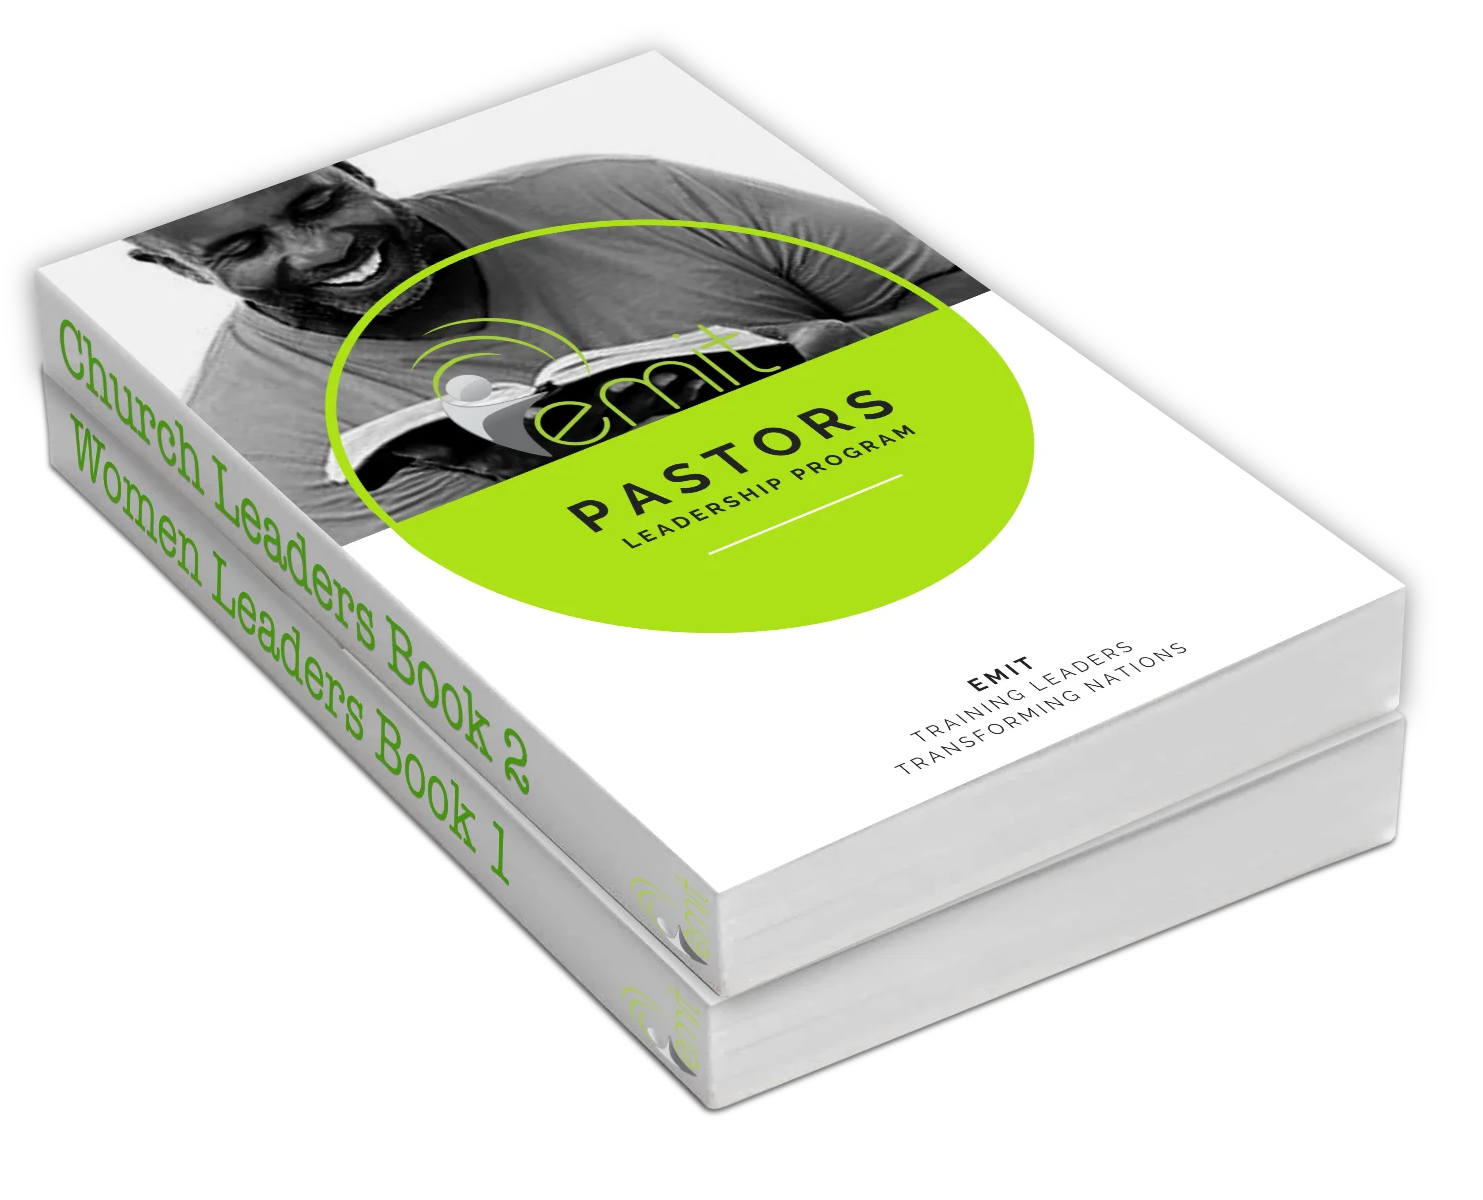
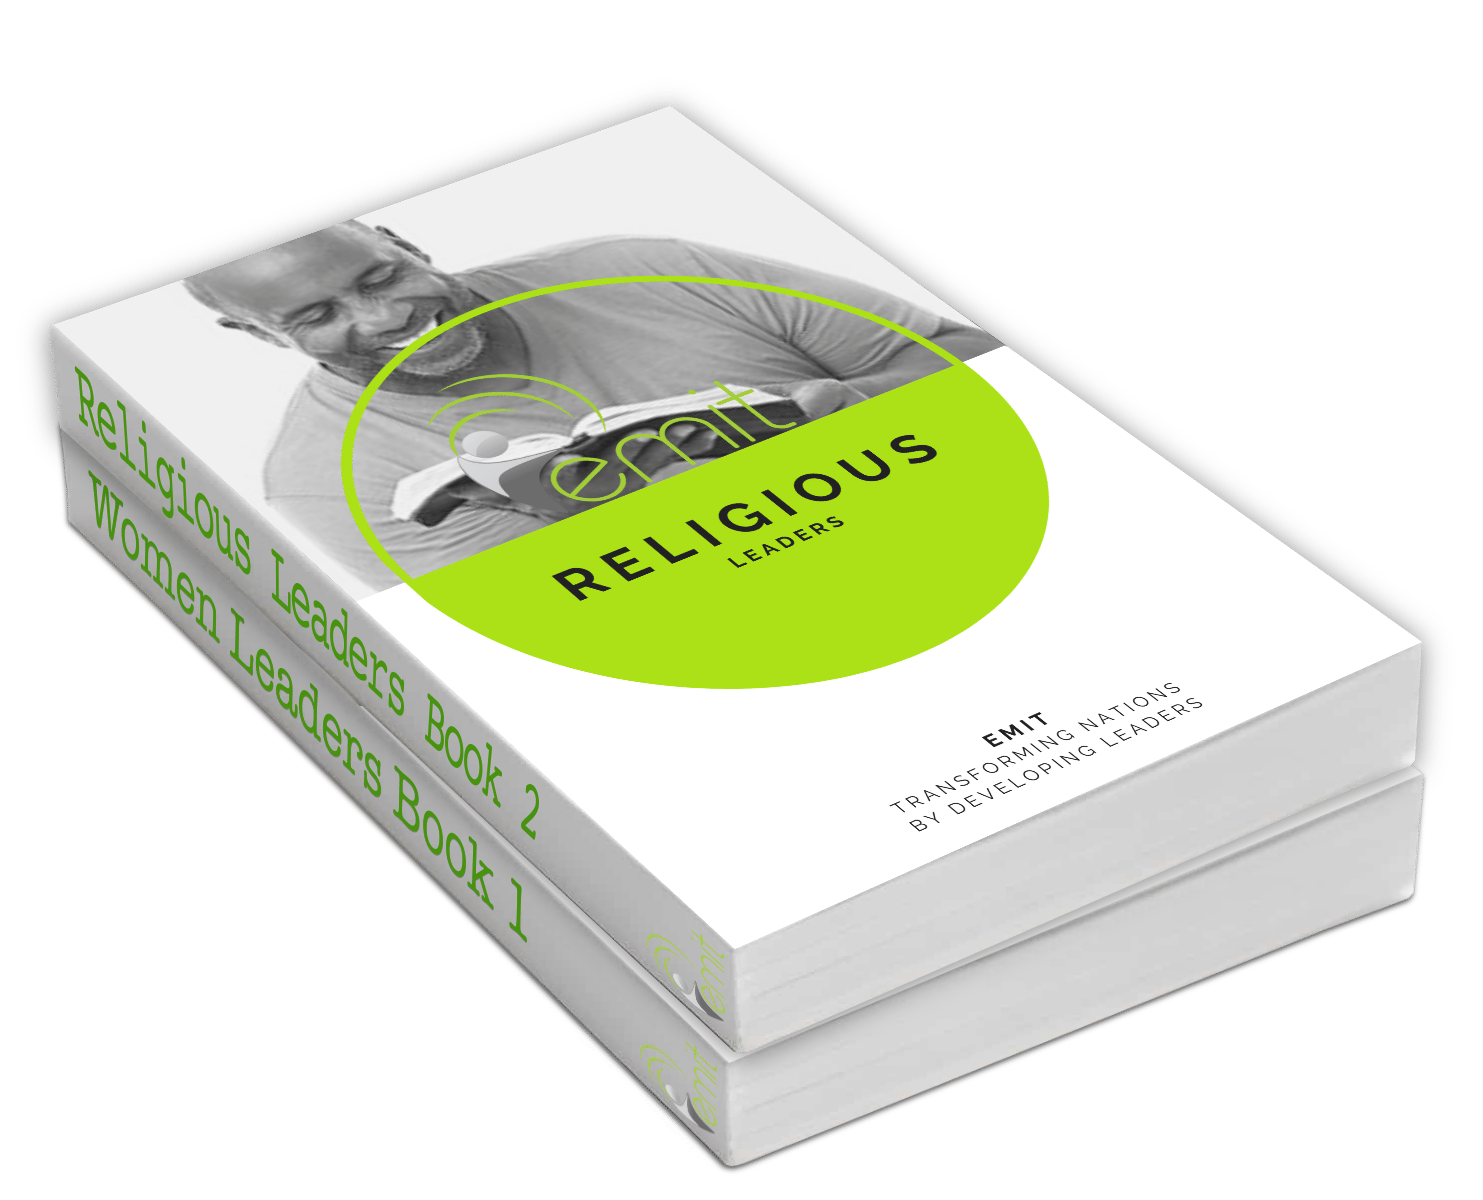
Changed spriritual to Religious

Changed region(s): [[0.0, 0.0617, 0.9926, 0.9867], [0.3102, 0.0308, 0.4653, 0.0925], [0.2481, 0.0925, 0.3102, 0.1233]]

diff --git a/about.html b/about.html
@@ -93,8 +93,8 @@ description:
 			Africa's leaders have the power to transform lives.
 		</p>
 		<div class="callToAction">
-			<a href="{{site.baseurl}}/get-involved/" class="button">Get Involved</a>
-			<a href="{{site.baseurl}}/donate/" class="button primary">Donate</a>
+			<a href="{{site.baseurl}}/get-involved" class="button">Get Involved</a>
+			<a href="{{site.baseurl}}/donate" class="button primary">Donate</a>
 		</div>
 	</div>
 </section>
@@ -357,7 +357,7 @@ description:
 <!-- FULL WIDTH CALL TO ACTION BUTTON -->
 <section class="ctaFeatured item--full dark">
 	<div class="container no-padding">
-		<a href="/donate/" class="callToAction editable">
+		<a href="/get-involved" class="callToAction editable">
 			YOU CAN BE THE CHANGE: GET INVOLVED
 		</a>
 	</div>

diff --git a/_programs/religious-leaders.md b/_programs/religious-leaders.md
@@ -1,5 +1,5 @@
 ---
-title: Spiritual Leaders
+title: Religious Leaders
 heroQuote: Education is the most powerful weapon which you can use to change the world.
 hero_Quote_Cite: Nelson Mandela
 hero_image: /images/couple.webp
@@ -14,8 +14,8 @@ objective_markdown: >-
 
   &nbsp;
 motivation: >-
-  Spiritual Leaders are not only leading at their places of worship, but also in
-  their communities in general. Therefor, they must be trained to serve
+  Religious Leaders are not only leading at their places of worship, but also in
+  their communities in general. Therefore, they must be trained to serve
   effectively as agents of change.
 status: current
 entrance: No academic qualification is required. Applicants must be recognized as leaders within their spiritual community. Applicants must be able to attend all classes, pay their tuition and train 10 other leaders.
@@ -25,7 +25,7 @@ assessment: Assessment of learning is incorporated within the course material an
 certification: The curriculum is designed to address wholistic leadership development to ensure community impact and transformation. It is therefore not an academic qualification. Advanced Diploma and Diploma levels are offered.
 graduation: Students graduate after they have attended all classes, successfully completed all examinations, trained 10 other leaders and paid their tuition in full. Graduations take place at each local venue.
 description_markdown: >-
-  Spiritual Leaders are widespread throughout Africa and have great influence in
+  Religious Leaders are widespread throughout Africa and have great influence in
   their communities. Yet, they lack proper training and vision to effectively
   transform those communities. This program gives leaders the theoretical
   framework, but also the practical knowledge and skills to rise above their
